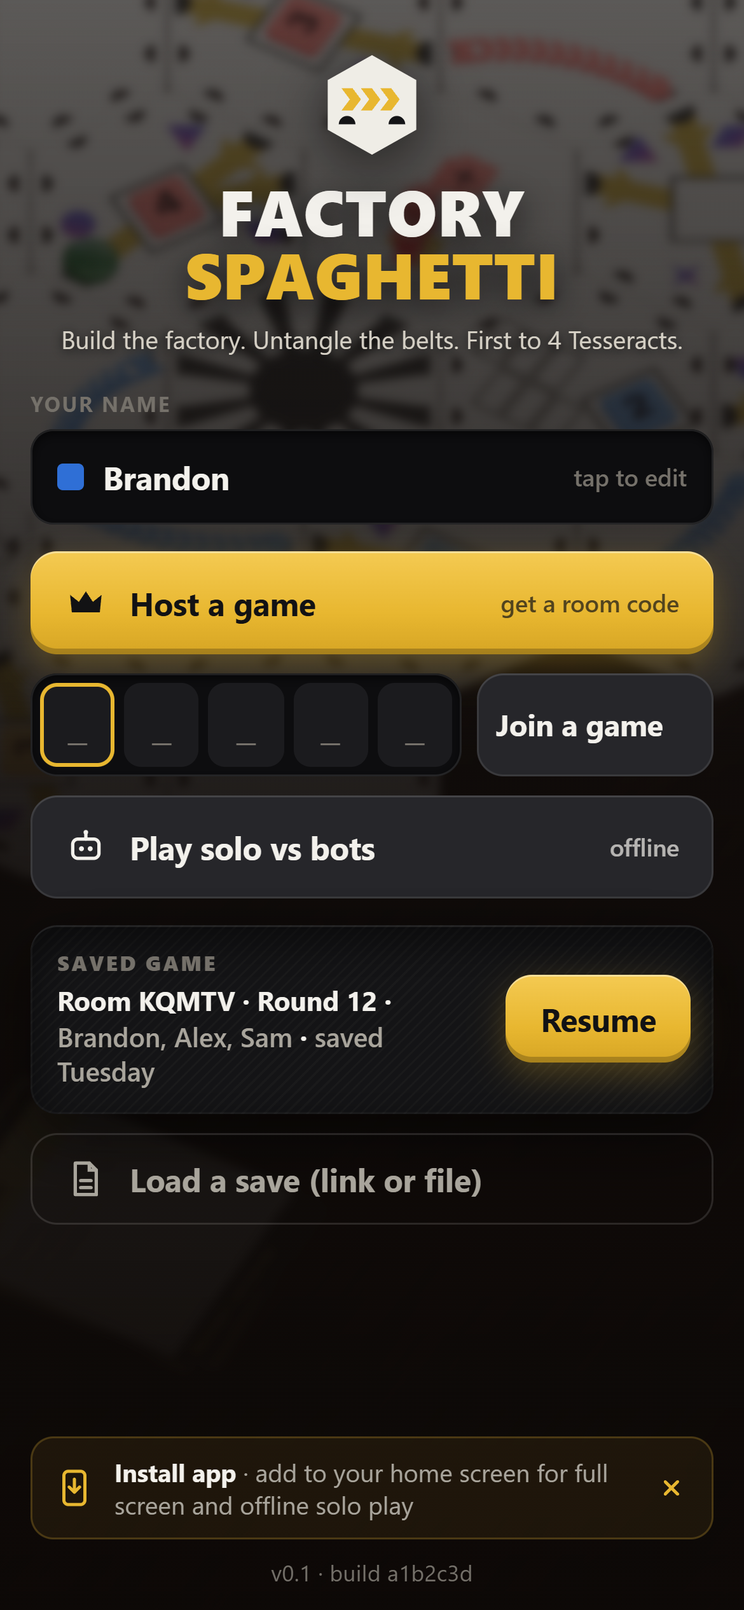
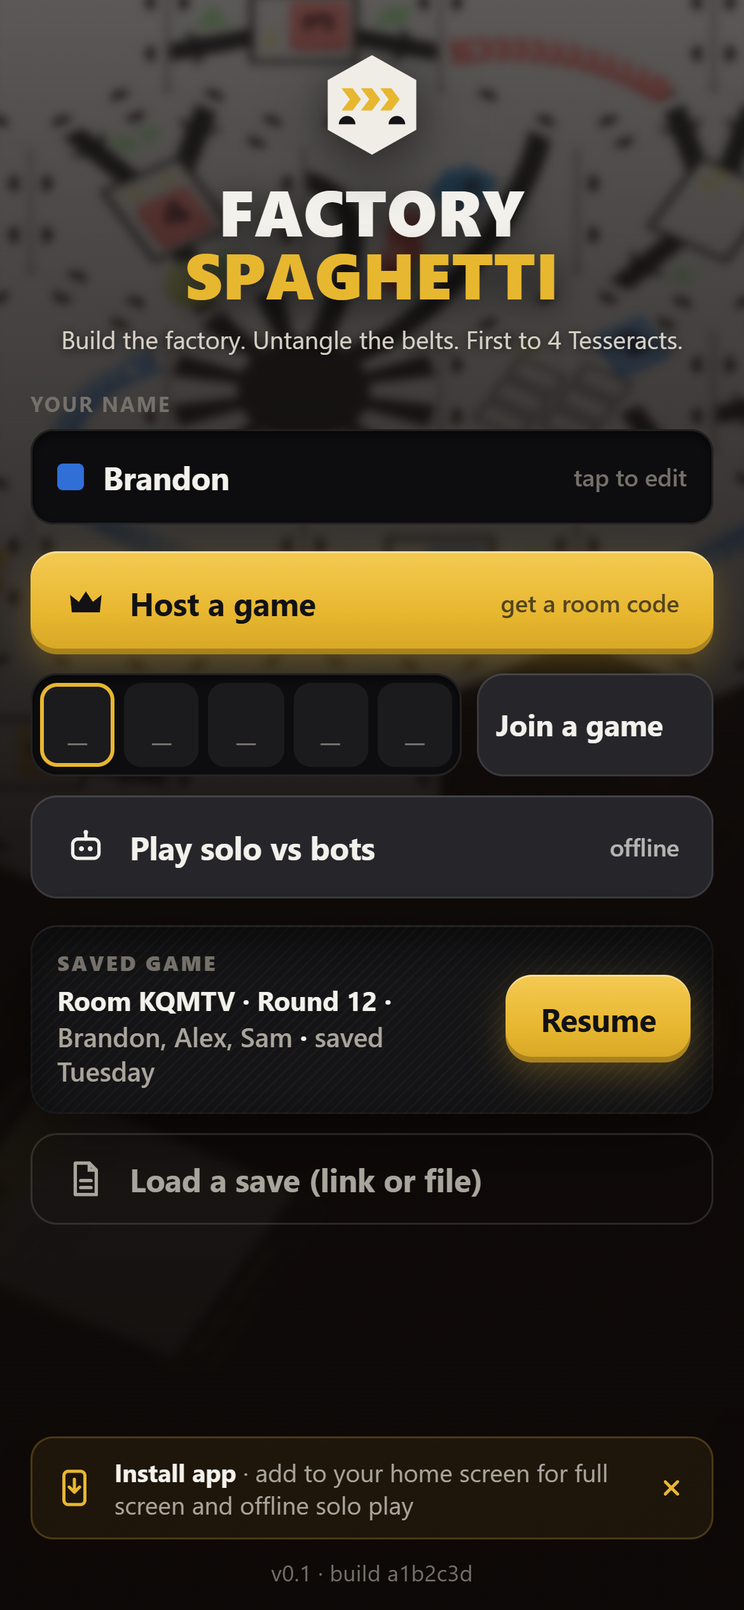
Mock-ups: redraw pieces to the current design
Building tiles now have black belt stubs, light-green material
symbols and yellow power bolts; the starting mine has its two belt
tracks and the new slot symbols; mines 2 and 3 show their updated
slots; material pieces and interface icons are green. All seven
screenshots retaken.

diff --git a/docs/mockups/table.js b/docs/mockups/table.js
@@ -111,21 +111,13 @@ function painter(px, Sx, Sz) {
 }
 
 const MAT = {
-  white: { color: '#e9e6de', rough: 0.74, metal: 0 },
-  gold: { color: '#dcaa38', rough: 0.36, metal: 0.8 },
-  black: { color: '#151515', rough: 0.55, metal: 0 },
-  groove: { color: '#c9c5bc', rough: 0.85, metal: 0 },
-  rayGap: { color: '#4a4846', rough: 0.7, metal: 0 },
+  white: { color: '#dddddb', rough: 0.72, metal: 0 },
+  black: { color: '#0e0e0e', rough: 0.55, metal: 0 },
+  groove: { color: '#cfcfcb', rough: 0.85, metal: 0 },
+  green: { color: '#3fc455', rough: 0.5, metal: 0 },
+  yellow: { color: '#e2c400', rough: 0.45, metal: 0 },
+  slotBlue: { color: '#0560b0', rough: 0.5, metal: 0 },
 };
-function irid(c, s = 6) {
-  return {
-    color: (ctx) => {
-      const g = ctx.createLinearGradient(c[0] - s, c[1] - s, c[0] + s, c[1] + s);
-      g.addColorStop(0, '#8d4fc4'); g.addColorStop(0.35, '#5b5fc9'); g.addColorStop(0.6, '#7a55b0'); g.addColorStop(0.85, '#a8508f'); g.addColorStop(1, '#5e8a8a');
-      return g;
-    }, rough: 0.3, metal: 0.55,
-  };
-}
 
 const ICON_SHAPES = {
   ore: (c, s = 1) => roundPts([[0, -4.6], [5.2, 4.2], [-5.2, 4.2]].map((p) => add(mul(p, s), c)), 1.1 * s),
@@ -133,84 +125,99 @@ const ICON_SHAPES = {
   sphere: (c, s = 1) => circlePts(4.4 * s, c),
   tess: (c, s = 1) => { const o = []; for (let i = 0; i < 8; i++) { const r = (i % 2 ? 1.5 : 5.8) * s, a = (45 + i * 45) * DEG; o.push([c[0] + r * Math.cos(a), c[1] + r * Math.sin(a)]); } return o; },
 };
+const BOLT = [[1.2, -4.2], [-2.0, 0.6], [-0.2, 0.6], [-1.3, 4.2], [2.1, -0.9], [0.3, -0.9], [1.9, -4.2]];
+const boltAt = (c, s = 1) => BOLT.map((q) => add(mul(q, s), c));
 
-// Building definitions in the tile's local frame (rotation 0). [edge, slot]
+// Building definitions in the tile's local frame (rotation 0). [edge, slot]. Current print design:
+// black stubs to the edge, inputs on the left pointing in, one output on the right pointing out.
 const FACTORY = {
-  plate: { ins: [[4, 1]], out: [1, 1], icons: [['ore', [7, -22]], ['plate', [-7, 22]]] },
-  sphere: { ins: [[4, 1], [5, 0]], out: [1, 1], icons: [['ore', [-19, -18]], ['plate', [19, -18]], ['sphere', [-7, 22]]] },
-  tess: { ins: [[3, 1], [4, 1], [0, 0]], out: [1, 1], icons: [['ore', [-19, -20]], ['plate', [5, -24]], ['sphere', [20, -19]], ['tess', [-7, 22]]] },
-  power: { ins: [[3, 0]], out: null, pocket: [-14, 10] },
+  plate: { ins: [[3, 0]], out: [0, 1], bolts: [[-8.5, 4.5]], inIcons: [['ore', [-23, -4], 0.95]], outIcon: ['plate', [23, -4], 0.95], pocket: [4, 0] },
+  sphere: { ins: [[3, 0], [4, 0]], out: [0, 1], bolts: [[-8.5, -4.5], [-8.5, 4.5]], inIcons: [['ore', [-24, -9.5], 0.72], ['plate', [-24, -1.5], 0.72]], outIcon: ['sphere', [23, -4], 1], pocket: [4, 0] },
+  tess: { ins: [[4, 0], [3, 0], [2, 1]], out: [0, 1], bolts: [[-9, -5], [-10.5, 4.5], [-6.3, 5.5]], inIcons: [['sphere', [-26, -3], 0.7], ['plate', [-21.5, -5], 0.66], ['ore', [-21.5, -1], 0.62]], outIcon: ['tess', [23, -4], 1.05], pocket: [4, 0] },
+  power: { ins: [[3, 0]], out: null, pocket: [5, 19] },
   blank: { ins: [], out: null },
 };
 const buffersOf = (type) => { const f = FACTORY[type]; return [...f.ins, ...(f.out ? [f.out] : [])]; };
 
-function paintStub(p, from, e, j) {
-  const end = holeCentroid(e, j);
-  const u = norm(sub(end, from)), n = [-u[1], u[0]], L = len(sub(end, from)), w = 3.5;
+// black stub from `from` to the tile edge at hole (e, j); barbs show the flow direction
+function paintStub(p, from, e, j, inward) {
+  const end = add(mul(edgeN(e), TILE_AP + 1.5), mul(edgeT(e), (j ? 1 : -1) * HOLE_SPREAD));
+  const u = norm(sub(end, from)), n = [-u[1], u[0]], L = len(sub(end, from)), w = 3.1;
   const at = (s, o) => add(add(from, mul(u, s)), mul(n, o));
-  p.fill(path([at(0, -w), at(L, -w), at(L, w), at(0, w)]), MAT.gold);
+  p.fill(path([at(0, -w), at(L, -w), at(L, w), at(0, w)]), MAT.black);
+  // flow direction along the stub: +1 outward, -1 inward
+  const f = inward ? -1 : 1, s0 = L - 10;
   for (const sgn of [-1, 1]) {
-    p.fill(path([at(L - 9.5, sgn * w * 0.9), at(L - 5.5, sgn * w * 0.9), at(L - 3.8, sgn * (w + 3.2)), at(L - 6.6, sgn * (w + 2.6))]), MAT.gold);
+    p.fill(path([at(s0 + f * 1.0, sgn * w * 0.8), at(s0 - f * 1.4, sgn * w * 0.8), at(s0 - f * 3.6, sgn * (w + 2.4)), at(s0 - f * 1.8, sgn * (w + 2.6))]), MAT.black);
   }
-  p.fill(path(dShape(e, j, 0.9)), MAT.black);
 }
+function paintIcon(p, kind, c, s, mat) { p.fill(path(ICON_SHAPES[kind](c, s)), mat); }
 
 function paintTile(p, type) {
   p.base(MAT.white);
   const f = FACTORY[type];
   if (type === 'plate' || type === 'sphere' || type === 'tess') {
-    for (const [e, j] of buffersOf(type)) paintStub(p, [0, 0], e, j);
-    const sq = rectPts(22, 22);
-    p.fill(path(sq), MAT.white);
-    p.stroke(path(rectPts(21, 21)), MAT.black, 1.1);
-    for (const [kind, c] of f.icons) p.fill(path(ICON_SHAPES[kind](c, 1.05)), irid(c));
+    for (const [e, j] of f.ins) paintStub(p, [0, 0], e, j, true);
+    paintStub(p, [0, 0], f.out[0], f.out[1], false);
+    p.fill(path(rectPts(28, 24)), MAT.white);
+    p.stroke(path(rectPts(26.4, 22.4)), MAT.black, 1.6);
+    for (const b of f.bolts) p.fill(path(boltAt(b, 1.25)), MAT.yellow);
+    for (const [kind, c, s] of f.inIcons) paintIcon(p, kind, c, s, MAT.green);
+    paintIcon(p, f.outIcon[0], f.outIcon[1], f.outIcon[2], MAT.green);
   } else if (type === 'power') {
-    for (const [e, j] of f.ins) paintStub(p, f.pocket, e, j);
-    p.fill(path(rectPts(22, 22, f.pocket)), MAT.white);
-    p.stroke(path(rectPts(21, 21, f.pocket)), MAT.black, 1.1);
-    // six solar-panel outlines, two staggered rows of three, tilted
-    const c0 = [9, -9], ang = -28;
-    for (let row = 0; row < 2; row++) for (let col = 0; col < 3; col++) {
-      const local = [(col - 1) * 8.6 + (row ? 4.3 : -4.3), (row - 0.5) * 14.4];
-      p.stroke(path(rectPts(7.4, 13.2, add(rot(local, ang), c0), ang)), MAT.black, 0.9);
+    paintStub(p, [-12, 8.5], 3, 0, true);
+    const c0 = [0, -7], ang = -30;
+    for (let col = 0; col < 2; col++) for (let row = 0; row < 3; row++) {
+      const local = [(col - 0.5) * 15.6, (row - 1) * 8.4 + (col ? -3.2 : 3.2)];
+      p.fill(path(rectPts(14.2, 7.2, add(rot(local, ang), c0), ang)), MAT.white);
+      p.stroke(path(rectPts(13.2, 6.2, add(rot(local, ang), c0), ang)), MAT.black, 1.1);
     }
+    p.fill(path(boltAt([18.5, -3], 1.4)), MAT.yellow);
+    p.fill(path(rectPts(4.6, 1.0, [23.6, -6.8])), MAT.black);
+    p.fill(path(rectPts(1.0, 4.6, [23.6, -6.8])), MAT.black);
   }
-  p.printLines();
+  p.printLines(0.025);
 }
 
-function paintMine(p) {
+// Mine painters. n = 1 (starting mine with belt tracks), 2 or 3 (lie on the stacks)
+function paintMine(p, n = 1) {
   p.base(MAT.white);
-  const rc = [-CELL_AP, 0], lc = [CELL_AP, 0];
+  const rc = [-CELL_AP, 0];
   const cx = p.cx, ox = p.ox;
-  // engraved rings, clipped to the rich half
   const richClip = path(hexPts(TILE_AP, rc));
   for (const ctx of [cx, ox]) { ctx.save(); ctx.clip(richClip); }
-  for (let r = 16; r <= 44; r += 3.1) p.stroke(path(circlePts(r, rc, 90)), MAT.groove, 0.35);
-  // twelve tapered rays to the twelve holes
+  for (let r = 20; r <= 44; r += 3.0) p.stroke(path(circlePts(r, rc, 90)), MAT.groove, 0.3);
   for (let e = 0; e < 6; e++) for (let j = 0; j < 2; j++) {
-    const end = add(rc, holeCentroid(e, j));
-    const u = norm(sub(end, rc)), n = [-u[1], u[0]], L = len(sub(end, rc));
-    const at = (s, o) => add(add(rc, mul(u, s)), mul(n, o));
-    p.fill(path([at(12, -1.4), at(L, -3.4), at(L, 3.4), at(12, 1.4)]), MAT.black);
-    p.fill(path(dShape(e, j, 0.4).map((q) => add(q, rc))), MAT.black);
+    if (e === 0) continue; // the two rays facing the second hex become tracks (mine 1) or a stub (mines 2, 3)
+    const end = add(rc, add(holeChord(e, j), mul(edgeN(e), 0.6)));
+    const u = norm(sub(end, rc)), nn = [-u[1], u[0]], L = len(sub(end, rc));
+    const at = (s, o) => add(add(rc, mul(u, s)), mul(nn, o));
+    p.fill(path([at(15, -2.0), at(L, -4.0), at(L, 4.0), at(15, 2.0)]), MAT.black);
   }
-  for (let r = 16; r <= 44; r += 3.1) p.stroke(path(circlePts(r, rc, 90)), MAT.rayGap, 0.3);
   for (const ctx of [cx, ox]) ctx.restore();
-  p.fill(path(circlePts(14, rc, 64)), MAT.black);
-  // lean half: two meeple slots — orange parallelogram, red stacked squares, each with a black plus
-  const par = [22, 0];
-  p.fill(path(roundPts([[-3.5, -7], [7.5, -7], [3.5, 7], [-7.5, 7]].map((q) => add(q, par)), 0.6)), { color: '#e0922c', rough: 0.4, metal: 0.35 });
-  const red = [47, 0];
-  p.fill(path(roundPts(rectPts(11, 11, add(red, [-1.6, -1.6])), 1.6)), { color: '#de3f48', rough: 0.5, metal: 0 });
-  p.fill(path(roundPts(rectPts(11, 11, add(red, [1.2, 1.2])), 1.6)), { color: '#e6464f', rough: 0.5, metal: 0 });
-  p.stroke(path(roundPts(rectPts(11, 11, add(red, [1.2, 1.2])), 1.6)), { color: '#c4343e', rough: 0.5, metal: 0 }, 0.3);
-  for (const c of [par, add(red, [0, 0])]) {
-    p.fill(path(rectPts(6.4, 1.3, c)), MAT.black);
-    p.fill(path(rectPts(1.3, 6.4, c)), MAT.black);
+  p.fill(path(circlePts(17, rc, 72)), MAT.black);
+  const plus = (c) => { p.fill(path(rectPts(6.4, 1.3, c)), MAT.black); p.fill(path(rectPts(1.3, 6.4, c)), MAT.black); };
+  const g = [13, 1.5], b = [44, 1.5];
+  if (n === 1) {
+    const track = (pts) => {
+      const pa = new Path2D(); pa.moveTo(...pts[0]); pa.bezierCurveTo(...pts[1], ...pts[2], ...pts[3]);
+      for (const [ctx, col] of [[cx, MAT.black.color], [ox, orm(MAT.black)]]) { ctx.save(); ctx.strokeStyle = col; ctx.lineWidth = 6.4; ctx.lineCap = 'butt'; ctx.stroke(pa); ctx.restore(); }
+    };
+    track([[-19, -4.5], [4, -10], [29, -13], [25.8, -36]]);
+    track([[-19, 4.5], [0, 18], [48, 19], [71, 8.5]]);
+    // light-green double triangle + blue double square
+    for (const o of [[2.2, -1.6], [-1.4, 1.0]]) p.fill(path(roundPts([[0, -6.4], [6.6, 5.2], [-6.6, 5.2]].map((q) => add(add(q, g), o)), 1.4)), MAT.green);
+    for (const o of [[-1.5, -1.5], [1.3, 1.3]]) p.fill(path(roundPts(rectPts(11, 11, add(b, o)), 1.6)), MAT.slotBlue);
+  } else {
+    p.fill(path(rectPts(4, 1.4, add(rc, [18.5, 0]))), MAT.black);
+    if (n === 2) p.fill(path(roundPts([[-3.5, -6.5], [7.5, -6.5], [3.5, 6.5], [-7.5, 6.5]].map((q) => add(q, g)), 0.6)), { color: '#38c41a', rough: 0.5, metal: 0 });
+    else p.fill(path(circlePts(6.8, g, 48)), { color: '#78c80e', rough: 0.5, metal: 0 });
+    const k = n === 2 ? 3 : 4;
+    for (let i = 0; i < k; i++) { const o = (i - (k - 1) / 2) * 2.2; p.fill(path(roundPts(rectPts(10.5, 10.5, add(b, [o, o])), 1.6)), MAT.slotBlue); }
   }
-  p.printLines();
+  plus(g); plus(n === 1 ? add(b, [1.3, 1.3]) : add(b, [((n === 2 ? 3 : 4) - 1) / 2 * 2.2, ((n === 2 ? 3 : 4) - 1) / 2 * 2.2]));
+  p.printLines(0.025);
 }
-
 function minePts() {
   const rich = hexPts(TILE_AP, [-CELL_AP, 0]), lean = hexPts(TILE_AP, [CELL_AP, 0]);
   // hexPts order: angles 30,90,150,210,270,330
@@ -375,10 +382,10 @@ function makeKit(renderer) {
     const m = new THREE.Mesh(tileGeo(type), opts.plain ? [sideWhite, sideWhite] : tileMat(type));
     m.castShadow = true; m.receiveShadow = true; return m;
   };
-  const mine = () => {
+  const mine = (n = 1) => {
     const g = memo('mineG', () => extrudePlan(roundPts(minePts(), 2.4), [], TILE_T, 0.55));
-    const mat = memo('mineM', () => {
-      const p = painter(2560, 160, 80); paintMine(p);
+    const mat = memo('mineM' + n, () => {
+      const p = painter(2560, 160, 80); paintMine(p, n);
       const { map, orm: o } = p.textures(renderer);
       return [std({ map, roughnessMap: o, metalnessMap: o, metalness: 1, roughness: 1 }), sideWhite];
     });
@@ -406,24 +413,24 @@ function makeKit(renderer) {
     });
     const m = new THREE.Mesh(g, plastic(color)); m.castShadow = m.receiveShadow = true; return m;
   };
-  const oreMat = memo('oreM', () => new THREE.MeshPhysicalMaterial({ color: '#7d47b8', roughness: 0.28, metalness: 0.35, iridescence: 1, iridescenceIOR: 1.6, iridescenceThicknessRange: [250, 700], envMapIntensity: 1.1 }));
+  const oreMat = memo('oreM', () => std({ color: '#9ee89c', roughness: 0.42, metalness: 0.05 }));
   const ore = () => {
     const g = memo('oreG', () => extrudePlan(roundPts([[0, -5.6], [6, 4.4], [-6, 4.4]], 1.8), [], 3.5, 0.7, 6));
     const m = new THREE.Mesh(g, oreMat); m.castShadow = true; return m;
   };
   const plate = () => {
     const g = memo('plateG', () => extrudePlan(roundPts([[-3.25, -6], [8.25, -6], [3.25, 6], [-8.25, 6]], 1.6), [], 4, 0.7, 6));
-    const mat = memo('plateM', () => new THREE.MeshPhysicalMaterial({ color: '#ff9a12', roughness: 0.18, transmission: 0.55, thickness: 4, ior: 1.45, attenuationColor: '#ff7a00', attenuationDistance: 6, emissive: '#8a3c00', emissiveIntensity: 0.35, envMapIntensity: 1.0 }));
+    const mat = memo('plateM', () => std({ color: '#3fbf4c', roughness: 0.4, metalness: 0.05 }));
     const m = new THREE.Mesh(g, mat); m.castShadow = true; return m;
   };
   const sphere = () => {
     const g = memo('sphG', () => new THREE.LatheGeometry([[0, 0], [5.6, 0], [7, 1.3], [7, 3.1], [5.8, 4.5], [0, 4.5]].map(([a, b]) => new THREE.Vector2(a, b)), 48));
-    const mat = memo('sphM', () => std({ map: glitterTexture('#183c22', ['#5fbf7a', '#2c7a44', '#9fe8b0', '#0f2a17'], 3), roughness: 0.35, metalness: 0.25, envMapIntensity: 1.0 }));
+    const mat = memo('sphM', () => std({ color: '#a9d630', roughness: 0.42, metalness: 0.05 }));
     const m = new THREE.Mesh(g, mat); m.castShadow = true; return m;
   };
   const tesseract = () => {
     const grp = new THREE.Group();
-    const mat = memo('tesM', () => std({ map: glitterTexture('#151517', ['#4f7a58', '#8a8a8a', '#3a5a40', '#2a2a2a'], 5), roughness: 0.3, metalness: 0.35, envMapIntensity: 1.2 }));
+    const mat = memo('tesM', () => std({ map: glitterTexture('#1d4a29', ['#3f8a52', '#2a6a3a', '#5fae6e', '#143a20'], 5), roughness: 0.35, metalness: 0.2, envMapIntensity: 1.0 }));
     const S = 10.5, b = 1.7;
     const bar = (w, h, d, x, y, z) => { const m = new THREE.Mesh(new THREE.BoxGeometry(w, h, d), mat); m.position.set(x, y, z); m.castShadow = true; grp.add(m); };
     // frame in XY plane, frame in ZY plane, frame in XZ plane
@@ -560,15 +567,15 @@ const BOARD = [
   { id: 'redSphere', cell: [1, -1], type: 'sphere', k: 2, owner: 'red', module: 4, outMat: 'sphere' },
   { id: 'blank1', cell: [0, -1], type: 'blank' },
   { id: 'blank2', cell: [-1, 0], type: 'blank' },
-  { id: 'bp1', cell: [-1, 1], type: 'plate', k: 0, owner: 'blue', module: 3, outMat: 'plate' },
+  { id: 'bp1', cell: [-1, 1], type: 'plate', k: 1, owner: 'blue', module: 3, outMat: 'plate' },
   { id: 'bluePower', cell: [0, 1], type: 'power', k: 5, owner: 'blue', module: 2 },
   { id: 'blank3', cell: [2, 0], type: 'blank' },
-  { id: 'redPlate', cell: [2, -1], type: 'plate', k: 0, owner: 'red', module: 3 },
-  { id: 'tess', cell: [1, 1], type: 'tess', k: 1 },
+  { id: 'redPlate', cell: [2, -1], type: 'plate', k: 1, owner: 'red', module: 3 },
+  { id: 'tess', cell: [1, 1], type: 'tess', k: 3 },
   { id: 'orangePlate', cell: [-2, 0], type: 'plate', k: 1, owner: 'orange', module: 3 },
   { id: 'bp2', cell: [1, 2], type: 'plate', k: 0, owner: 'blue', module: 5, inMat: 'ore', teleOut: 'blue', meeple: 'blue' },
   { id: 'blank4', cell: [-1, 2], type: 'blank' },
-  { id: 'sphere2', cell: [0, 2], type: 'sphere', k: 5 },
+  { id: 'sphere2', cell: [0, 2], type: 'sphere', k: 0 },
   { id: 'blank5', cell: [-2, 1], type: 'blank' },
   { id: 'blank6', cell: [2, 1], type: 'blank' },
   { id: 'redPower', cell: [3, 0], type: 'power', k: 4, owner: 'red', module: 2 },
@@ -581,11 +588,11 @@ const BOARD = [
 // belts in world edge terms: [edge, slot] on the given cell, material flows a -> b
 const BELTS = [
   { cell: [0, -1], a: [1, 0], b: [2, 1], color: 'blue' },  // from the mine ray-hole
-  { cell: [-1, 0], a: [5, 0], b: [1, 0], color: 'blue' },  // into bp1's input
-  { cell: [-1, 2], a: [4, 0], b: [0, 0], color: 'blue' },  // bp1 output toward the sphere factory
+  { cell: [-1, 0], a: [5, 0], b: [1, 1], color: 'blue' },  // into bp1's input
+  { cell: [-1, 2], a: [4, 0], b: [0, 1], color: 'blue' },  // bp1 output toward the sphere factory
   { cell: [2, 0], a: [4, 0], b: [2, 0], color: 'red' },
 ];
-const MEEPLE_SPOT = { plate: [21, -3], sphere: [21, 3], tess: [22, 6], power: [16, 17] };
+const MEEPLE_SPOT = { plate: [17, -18], sphere: [16, -19], tess: [16, -19], power: [21, 9] };
 
 function buildGame(kit, scene, anchors, opts) {
   const board = new THREE.Group(); scene.add(board);
@@ -594,7 +601,7 @@ function buildGame(kit, scene, anchors, opts) {
   const mine = kit.mine(); board.add(mine);
   anchors.mine = new THREE.Vector3(0, TILE_T, 0);
   // red meeple on the lean-half parallelogram slot
-  const rm = kit.meeple(PLAYER_COLORS.red); rm.position.set(22, TILE_T, 0); rm.rotation.y = 8 * DEG; board.add(rm);
+  const rm = kit.meeple(PLAYER_COLORS.red); rm.position.set(13, TILE_T, 1.5); rm.rotation.y = 8 * DEG; board.add(rm);
 
   const flash = new Set(opts.flashModules || []);
   for (const t of BOARD) {
@@ -644,14 +651,14 @@ function buildGame(kit, scene, anchors, opts) {
       t.rotation.y = (R() - 0.5) * 3 * DEG; board.add(t);
     }
     let top = n * (TILE_T + 0.04);
-    if (withMine) { const m = kit.mine(); m.position.set(pos[0], top, pos[1]); m.rotation.y = ((R() - 0.5) * 4) * DEG; board.add(m); top += TILE_T; }
+    if (withMine) { const m = kit.mine(withMine); m.position.set(pos[0], top, pos[1]); m.rotation.y = ((R() - 0.5) * 4) * DEG; board.add(m); top += TILE_T; }
     anchors[id] = new THREE.Vector3(pos[0], top, pos[1]);
     anchors[id + '.base'] = new THREE.Vector3(pos[0], 0, pos[1] + 40);
   };
   const SX = opts.stacksX ?? 292;
   stackAt([SX, -94], 10, false, 'stack1');
-  stackAt([SX, 4], 7, true, 'stack2');
-  stackAt([SX, 102], 6, true, 'stack3');
+  stackAt([SX, 4], 7, 2, 'stack2');
+  stackAt([SX, 102], 6, 3, 'stack3');
 
   const DX = opts.deckX ?? -300;
   for (let i = 0; i < 18; i++) { const c = kit.card(null); c.position.set(DX + (R() - 0.5) * 0.8, 0.2 + i * 0.42, (opts.deckZ ?? 0) + (R() - 0.5) * 0.8); c.rotation.y = (R() - 0.5) * 2 * DEG; board.add(c); }
@@ -695,7 +702,7 @@ function buildGallery(kit, scene, anchors, labels, which) {
   const L = (text, x, z, sub) => labels.push({ text, sub, pos: new THREE.Vector3(x, 0, z) });
   if (which === 'large') {
     const row1 = -172, row2 = 2, row3 = 176;
-    const types = [['blank', 'Blank tile', '12 half-round belt holes'], ['plate', 'Plate Factory', 'ore in → plate out'], ['sphere', 'Sphere Factory', 'ore + plate in → sphere out'], ['tess', 'Tesseract Factory', 'ore + plate + sphere → tesseract'], ['power', 'Power Plant', 'solar panels · input · module pocket']];
+    const types = [['blank', 'Blank tile', '12 half-round belt holes'], ['plate', 'Plate Factory', 'ore in → plate out'], ['sphere', 'Sphere Factory', 'ore + plate in → sphere out'], ['tess', 'Tesseract Factory', 'ore + plate + sphere → tesseract'], ['power', 'Power Plant', 'solar panels · input stub · power bolt']];
     types.forEach(([t, name, sub], i) => {
       const x = -240 + i * 120;
       const m = kit.tile(t); m.position.set(x, 0, row1); g.add(m);
@@ -703,10 +710,10 @@ function buildGallery(kit, scene, anchors, labels, which) {
       L(name, x, row1 + 42, sub);
     });
     const mine = kit.mine(); mine.position.set(-196, 0, row2); g.add(mine);
-    L('Mine (double hex)', -196, row2 + 42, 'rays = outputs · two meeple slots');
+    L('Mine 1 (starting mine)', -196, row2 + 42, 'rays, two belt tracks, two meeple slots');
     for (let i = 0; i < 7; i++) { const t = kit.tile('blank', { plain: true }); t.position.set(-22 + (i % 2) * 0.8, i * 3.04, row2 - 2 - (i % 3) * 0.5); t.rotation.y = (i % 3 - 1) * 1.5 * DEG; g.add(t); }
-    const m2 = kit.mine(); m2.position.set(-22, 7 * 3.04, row2 - 2); m2.rotation.y = 2 * DEG; g.add(m2);
-    L('Locked stack + its mine', -22, row2 + 42, 'face-down tiles, mine lies on top');
+    const m2 = kit.mine(2); m2.position.set(-22, 7 * 3.04, row2 - 2); m2.rotation.y = 2 * DEG; g.add(m2);
+    L('Locked stack + mine 2', -22, row2 + 42, 'face-down tiles, mine 2 lies on top');
     const tr = kit.tray(PLAYER_COLORS.blue, [2, 3, 5]); tr.position.set(110, 0, row2); g.add(tr);
     L('Control Module tray', 110, row2 + 64, 'Blue · 2, 3, 5 are on buildings');
     ['blue', 'red', 'orange', 'green'].forEach((c, i) => { const m = kit.module(PLAYER_COLORS[c], [6, 12, 3, 17][i]); m.position.set(168 + (i % 2) * 21, 0, row2 - 22 + Math.floor(i / 2) * 21); m.rotation.y = ((i * 7) % 5 - 2) * 3 * DEG; g.add(m); });
@@ -722,21 +729,21 @@ function buildGallery(kit, scene, anchors, labels, which) {
     const dk = (x, n) => { for (let i = 0; i < n; i++) { const c = kit.card(null); c.position.set(x + (i % 2) * 0.6, 0.2 + i * 0.42, row3 + (i % 3) * 0.4); g.add(c); } };
     dk(-170, 14); L('Deck', -170, row3 + 46, 'face down on the table');
     const pm = kit.tile('plate'); pm.position.set(160, 0, row3); g.add(pm);
-    const mm = kit.module(PLAYER_COLORS.blue, 3); mm.position.set(160, TILE_T, row3); g.add(mm);
+    const mm = kit.module(PLAYER_COLORS.blue, 3); mm.position.set(164, TILE_T, row3); g.add(mm);
     const bp = (e, j, inset) => { const h = holeCentroid(e, j); const s = (len(h) - inset) / len(h); return [160 + h[0] * s, row3 + h[1] * s]; };
-    const o = kit.ore(); const op = bp(4, 1, 4.5); o.position.set(op[0], TILE_T, op[1]); g.add(o);
-    const tp = kit.teleporter(PLAYER_COLORS.blue); const tpp = bp(1, 1, 1.5); tp.position.set(tpp[0], TILE_T, tpp[1]); g.add(tp);
-    const mp = kit.meeple(PLAYER_COLORS.blue); mp.position.set(181, TILE_T, row3 - 3); g.add(mp);
+    const o = kit.ore(); const op = bp(3, 0, 6); o.position.set(op[0], TILE_T, op[1]); g.add(o);
+    const tp = kit.teleporter(PLAYER_COLORS.blue); const tpp = bp(0, 1, 3); tp.position.set(tpp[0], TILE_T, tpp[1]); g.add(tp);
+    const mp = kit.meeple(PLAYER_COLORS.blue); mp.position.set(177, TILE_T, row3 - 18); g.add(mp);
     L('Pieces in play', 160, row3 + 42, 'ore on input · teleporter on output · meeple');
   } else {
     const rowA = -36, rowB = 50;
     ['blue', 'red', 'orange', 'green'].forEach((c, i) => { const m = kit.meeple(PLAYER_COLORS[c]); m.position.set(-150 + i * 17, 0, rowA - 4 + (i % 2) * 3); m.rotation.y = (i - 1.5) * 9 * DEG; g.add(m); });
     L('Meeples', -124.5, rowA + 10, 'blue · red · orange · green');
     const place = (obj, x, z, name, sub, lz = 12) => { obj.position.x = x; obj.position.z = z; g.add(obj); L(name, x, z + lz, sub); };
-    const o = kit.ore(); o.rotation.y = 0.3; place(o, -62, rowA, 'Ore', 'iridescent triangle');
-    const p = kit.plate(); p.rotation.y = -0.2; place(p, -20, rowA, 'Plate', 'translucent parallelogram');
-    place(kit.sphere(), 22, rowA, 'Sphere', 'green glitter disc');
-    const ts = kit.tesseract(); ts.rotation.y = 0.5; place(ts, 62, rowA, 'Tesseract', 'three square frames');
+    const o = kit.ore(); o.rotation.y = 0.3; place(o, -62, rowA, 'Ore', 'light-green triangle');
+    const p = kit.plate(); p.rotation.y = -0.2; place(p, -20, rowA, 'Plate', 'green parallelogram');
+    place(kit.sphere(), 22, rowA, 'Sphere', 'yellow-green disc');
+    const ts = kit.tesseract(); ts.rotation.y = 0.5; place(ts, 62, rowA, 'Tesseract', 'dark-green open cross');
     const tk = kit.powerToken(); tk.rotation.y = 0.2; place(tk, 106, rowA, 'Power token', 'gold · lightning bolt', 16);
     place(kit.teleporter(PLAYER_COLORS.blue), -110, rowB, 'Teleporter', 'placeholder · glowing collar', 14);
     const d1 = kit.die(5); d1.position.set(-36, 8, rowB - 2); d1.rotation.y = 15 * DEG; g.add(d1);

diff --git a/docs/mockups/ui.js b/docs/mockups/ui.js
@@ -4,10 +4,10 @@ export const COLORS = { blue: '#2f6fd6', red: '#e0454f', orange: '#f08a24', gree
 const svg = (body, vb = '0 0 24 24') => `<svg viewBox="${vb}" xmlns="http://www.w3.org/2000/svg" aria-hidden="true">${body}</svg>`;
 let gid = 0;
 export const ICONS = {
-  ore: () => { const id = 'go' + gid++; return svg(`<defs><linearGradient id="${id}" x1="0" y1="0" x2="1" y2="1"><stop offset="0" stop-color="#a35fe0"/><stop offset=".45" stop-color="#5d62d0"/><stop offset=".75" stop-color="#9a55b4"/><stop offset="1" stop-color="#c4589a"/></linearGradient></defs><path d="M12 3.2c.6 0 1.1.3 1.4.8l8 13.7c.6 1-.1 2.3-1.3 2.3H3.9c-1.2 0-1.9-1.3-1.3-2.3l8-13.7c.3-.5.8-.8 1.4-.8z" fill="url(#${id})"/><path d="M12 6.5 6.2 16.8" stroke="rgba(255,255,255,.35)" stroke-width="1.2" stroke-linecap="round"/>`); },
-  plate: () => svg(`<path d="M8.2 5.5h13c.9 0 1.4.9 1 1.6l-5.5 10.6c-.2.5-.7.8-1.2.8h-13c-.9 0-1.4-.9-1-1.6L7 6.3c.2-.5.7-.8 1.2-.8z" fill="#f2a21e" fill-opacity=".92" stroke="#ffd27a" stroke-width=".9"/><path d="M9 8h9" stroke="rgba(255,255,255,.55)" stroke-width="1.2" stroke-linecap="round"/>`),
-  sphere: () => svg(`<circle cx="12" cy="12" r="9" fill="#1d4f2c"/><circle cx="12" cy="12" r="6.6" fill="#2a6b3d"/><circle cx="9" cy="9" r=".9" fill="#a7f0bb"/><circle cx="14.5" cy="13.5" r=".7" fill="#7fd99a"/><circle cx="11" cy="15" r=".6" fill="#c8ffd6"/><circle cx="15" cy="8.6" r=".5" fill="#c8ffd6"/>`),
-  tess: () => svg(`<path d="M12 2.5l2.3 7.2 7.2 2.3-7.2 2.3L12 21.5l-2.3-7.2L2.5 12l7.2-2.3z" fill="#2b2b30" stroke="#d9d3c6" stroke-width="1.1" stroke-linejoin="round"/>`),
+  ore: () => svg(`<path d="M12 3.2c.6 0 1.1.3 1.4.8l8 13.7c.6 1-.1 2.3-1.3 2.3H3.9c-1.2 0-1.9-1.3-1.3-2.3l8-13.7c.3-.5.8-.8 1.4-.8z" fill="#9ee89c"/><path d="M12 6.5 6.2 16.8" stroke="rgba(255,255,255,.45)" stroke-width="1.2" stroke-linecap="round"/>`),
+  plate: () => svg(`<path d="M8.2 5.5h13c.9 0 1.4.9 1 1.6l-5.5 10.6c-.2.5-.7.8-1.2.8h-13c-.9 0-1.4-.9-1-1.6L7 6.3c.2-.5.7-.8 1.2-.8z" fill="#3fbf4c"/><path d="M9 8h9" stroke="rgba(255,255,255,.4)" stroke-width="1.2" stroke-linecap="round"/>`),
+  sphere: () => svg(`<circle cx="12" cy="12" r="9" fill="#a9d630"/><circle cx="12" cy="12" r="6.8" fill="none" stroke="rgba(0,0,0,.18)" stroke-width="1.2"/><circle cx="9" cy="9" r="1.6" fill="rgba(255,255,255,.45)"/>`),
+  tess: () => svg(`<path d="M12 2.5l2.3 7.2 7.2 2.3-7.2 2.3L12 21.5l-2.3-7.2L2.5 12l7.2-2.3z" fill="#5fcf6a" stroke="#1d4a29" stroke-width="1" stroke-linejoin="round"/>`),
   power: () => svg(`<circle cx="12" cy="12" r="10" fill="#e1ac36"/><circle cx="12" cy="12" r="8.6" fill="none" stroke="#b88520" stroke-width=".8"/><path d="M13.6 4.6 7.6 13h3.6l-1.6 6.4 6.6-9h-3.7l1.9-5.8z" fill="#121214"/>`),
   card: () => svg(`<rect x="5" y="2.5" width="14" height="19" rx="2.2" fill="#121214" stroke="#e8b730" stroke-width="1.4"/><path d="M8 9c3-3 5 3 8 0M8 14c3-3 5 3 8 0" stroke="#e8b730" stroke-width="1.2" fill="none"/>`),
   belt: (c = '#2f6fd6') => svg(`<g fill="${c}"><path d="M1 8h3.4l3 4-3 4H1l3-4z"/><path d="M7.4 8h3.4l3 4-3 4H7.4l3-4z"/><path d="M13.8 8h3.4l3 4-3 4h-3.4l3-4z"/><path d="M19.6 7.2 23.4 12l-3.8 4.8z"/></g>`),

diff --git a/docs/PLAN.md b/docs/PLAN.md
@@ -279,7 +279,7 @@ Player colours in the printed set: **blue, red, orange, green**.
 
 No model exists yet for teleporters or the leverage cards. The mock-ups use placeholders for these.
 
-All eighteen models above have been converted from the AMS file into `public/models/` (see `docs/models/README.md` and `docs/models/gallery.png`).
+Milestone N4 converts these pieces from the AMS file into `public/models/`, with a gallery image in `docs/models/`.
 
 The grey lunar-crater artwork in the rulebook diagrams does not appear on the printed tiles. See open decision D3.
 
